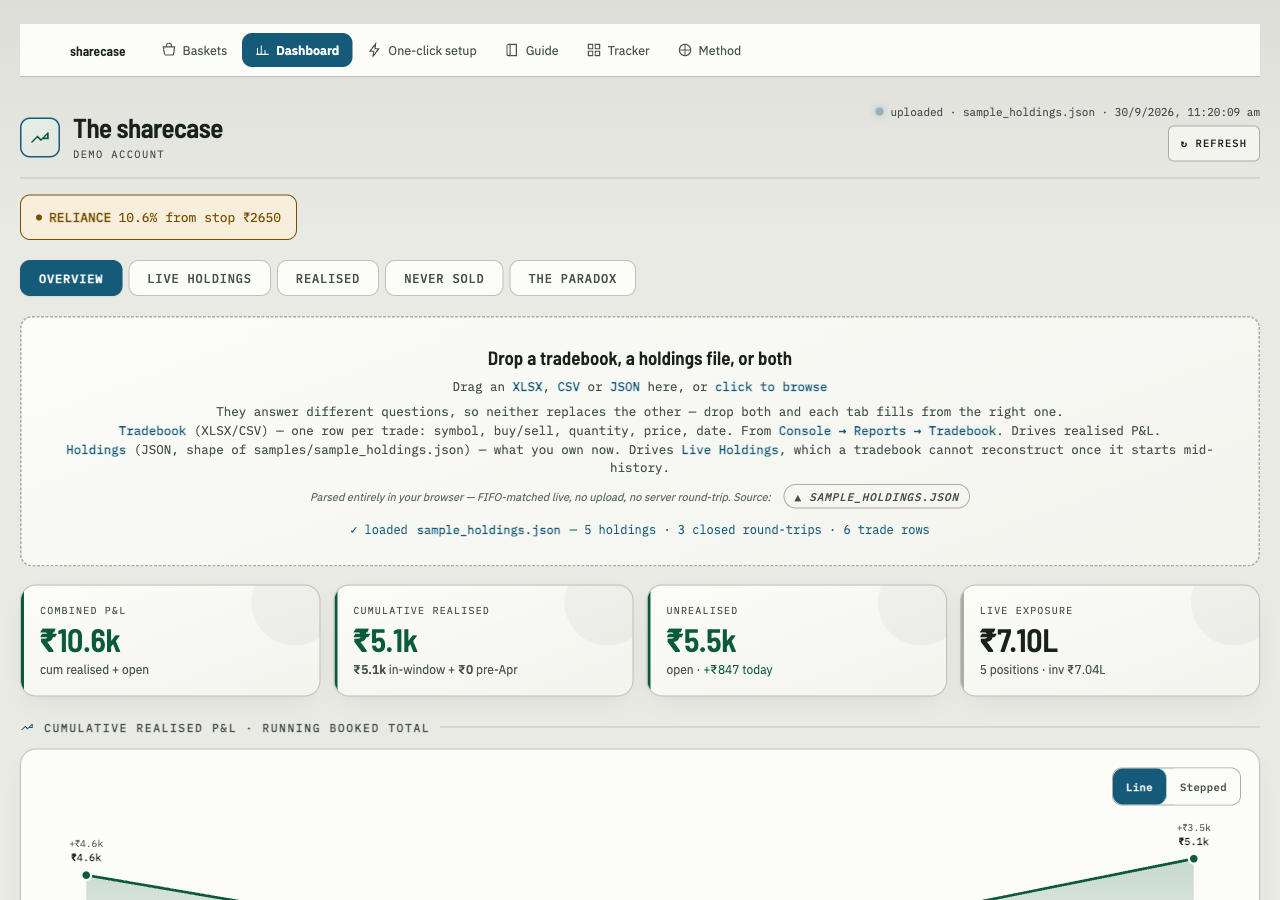
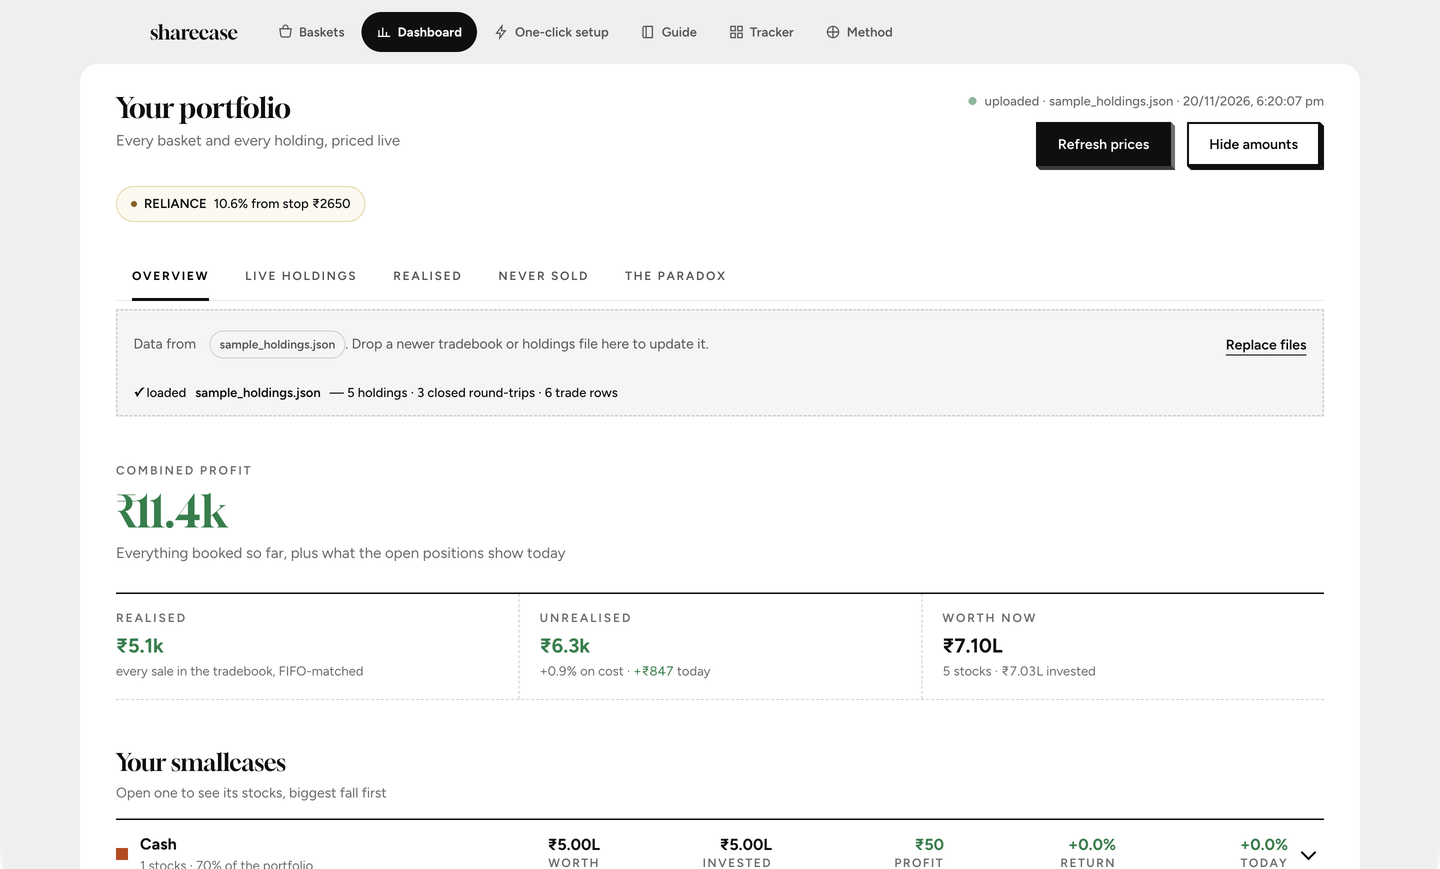
Architecture doc for the current flow; README and guide screenshots in the new design
- docs/ARCHITECTURE.md: trades from uploads on the public site, or from Netfolio on your own machine;
  sortable tables; the per-sale 'if you had kept what you sold' breakdown
- all 8 screenshots retaken with sample data only; alt text updated to match

diff --git a/docs/ARCHITECTURE.md b/docs/ARCHITECTURE.md
@@ -1,0 +1,114 @@
+# How sharecase works
+
+sharecase is a set of static HTML pages and one serverless function. It has no build step, database,
+accounts or telemetry. Every number is calculated in your browser from files you give it, and the
+server only fetches stock prices.
+
+The pages get your trades in one of two ways:
+- **On the public site,** from files you upload: a Console tradebook and a holdings file.
+- **On your own machine,** from [Netfolio](https://github.com/udaysrinu/netfolio), which reads your
+  broker's contract notes from Gmail and serves the result to these same pages on `localhost`.
+  Nothing has to be downloaded or uploaded.
+
+## 1. Context
+
+```mermaid
+flowchart LR
+  U(["You"]) -->|"open the pages"| SC["<b>sharecase</b><br/>basket sizing · portfolio analytics"]
+  U -->|"upload a tradebook / holdings file"| SC
+  NF["<b>Netfolio</b> (optional, local)<br/>trades from contract-note emails"] -->|"live.json on localhost"| SC
+  SC -->|"prices, no key"| Y["<b>Yahoo Finance</b><br/>last price · previous close · daily history"]
+  SC -->|"basket handoff, you confirm in Kite"| Z["<b>Zerodha</b><br/>Kite"]
+  F(["A friend"]) -->|"shares a basket file"| U
+```
+
+## 2. Containers
+
+```mermaid
+flowchart LR
+  subgraph V["Vercel"]
+    ST["Static pages<br/>7 HTML files + sorttable.js"]
+    FN["api/price.js<br/>price proxy"]
+  end
+  subgraph B["Your browser"]
+    WB["Workbench<br/>basket.html"]
+    TR["Tracker<br/>baskets.html"]
+    DA["Dashboard<br/>dashboard.html"]
+    LS[("localStorage")]
+  end
+  ST --> B
+  WB & TR & DA -->|"/api/price"| FN
+  FN -->|"Yahoo v8 chart"| Y["Yahoo"]
+  WB & TR & DA <--> LS
+  WB -->|"form POST"| K["kite.zerodha.com/connect/basket"]
+```
+
+| Page | What it does | Where its data comes from |
+|---|---|---|
+| `basket.html`, the Workbench | turns target weights into whole-share orders for an amount, or a rebalance of what you hold | a basket file, a pasted sheet, a holdings export |
+| `baskets.html`, the Tracker | per-basket ledger: value, invested, open and booked profit | your basket file and trades, kept in localStorage |
+| `dashboard.html` | whole-portfolio view: booked profit by month, best and worst stocks, per-stock history | an uploaded tradebook (XLSX/CSV) and/or holdings (JSON), or `live.json` when Netfolio serves one |
+| `index`, `onboarding`, `friends`, `method` | landing page, Kite key setup, a guide, and the sizing method | none |
+
+Every data table sorts by any column (`sorttable.js`). A redrawn table keeps the sort you chose.
+
+What's kept in your browser (`localStorage`): the basket file, parsed trades, the "hide amounts"
+switch, and your Kite **API key**. The key is public by design. These pages never use the API secret.
+
+## 3. The price API
+
+```mermaid
+flowchart TB
+  RQ["GET /api/price"] --> CO["CORS allowlist"]
+  CO --> Q{"?hist= ?"}
+  Q -->|"yes"| H["daily closes + split events<br/>NSE, then BSE · cached 1 h"]
+  Q -->|"no"| S["?symbols= up to 60 · last price + previous close<br/>series suffix stripped · INR only · cached 60 s"]
+```
+
+- Yahoo sends no CORS header, so a browser can't read it directly; this function can.
+- It needs no key and holds no credentials.
+- It returns a symbol as missing rather than guessing a price.
+
+## 4. Inside the Dashboard
+
+```mermaid
+flowchart TB
+  IN["uploaded files, or live.json"] --> P["parse XLSX / CSV / JSON"]
+  P --> G["reject anything that isn't a stock symbol (counted, shown)"]
+  G --> BD["buildData()"] --> FJ["fifoJS(): round trips · open lots"]
+  FJ --> AG["by month · cumulative · per stock · per basket"]
+  AG --> R["render: hero · basket dropdowns · best/worst ·<br/>charts · month lists"]
+  R --> DD["click a stock: price history with your buys and sells,<br/>average cost, booked, 'if you had kept what you sold'<br/>with one row per sale, every trade"]
+  PR["/api/price every 30 s"] --> BD
+```
+
+## 5. How the numbers are calculated
+
+| Number | Rule |
+|---|---|
+| Booked (realised) profit | FIFO per symbol with **same-day netting**, the way Zerodha computes it. On a day with both buys and sells, the matched quantity is intraday at that day's average buy against average sell. Only the remainder sells the oldest lots, or opens one new lot. This reproduces Kite's average prices. |
+| Average cost | the cost of the open FIFO lots |
+| Open (unrealised) profit | quantity × (last price − average cost) |
+| Session move | quantity × (last price − previous close), labelled "last session" outside market hours |
+| Whole-share sizing | shares are whole, so a basket only hits its weights exactly at certain amounts. The Workbench lists the nearest exact amounts (see [method.html](../method.html)). |
+| If you had kept what you sold | per sale: shares sold × splits since × today's price − what you received. The sheet totals what you received and what those shares are worth now. |
+
+Every figure is gross: no brokerage, taxes or charges, and no dividends.
+
+The pages and Netfolio's Python compute the same numbers independently. Netfolio's tests run the
+pages' own JavaScript and require both to agree to the rupee.
+
+## 6. Refresh
+
+- **Prices:** automatic, every 30 seconds while a page is open.
+- **Trades and holdings, on the public site:** whenever you load a new file. Kite's API only exposes
+  today's orders, so trade history has to come from Console tradebook exports.
+- **Trades and holdings, with Netfolio:** from the contract note your broker emails for every day you
+  trade. Netfolio checks who signed each note and that its sums hold, then rebuilds `live.json`.
+  The Dashboard re-reads it every 30 seconds.
+
+## 7. Security
+- Basket files come from other people, so they're untrusted.
+  - Symbols are validated where data comes in: A–Z, 0–9 and `& . -` only.
+  - Basket names and other free text are escaped wherever they're shown.
+- The one CDN script (SheetJS) is pinned with Subresource Integrity.

diff --git a/docs/GUIDE.md b/docs/GUIDE.md
@@ -113,7 +113,7 @@ for the minimum only; above it, see "over" above. For the sample basket it is **
 **Below the minimum it refuses**, rather than quietly dropping the stock it cannot afford. It names
 the stock that sets the floor and offers 1×, 2× and 3× the minimum:
 
-![The Workbench refusing ₹5,000 for the sample basket: it is under the floor of ₹12,554, TCS would get zero shares so you would own a different, more concentrated basket, and 1×, 2× and 3× the minimum (₹12,554, ₹25,108, ₹37,662) are offered. Above that, an amber "under this basket's floor" box with a Use ₹12,554 button, and the quick-pick row ₹12,600, ₹17,200, ₹27,300, ₹44,900 and ₹60,700](img/blocked.png)
+![The Workbench refusing ₹5,000 for the sample basket: it is under the floor of ₹12,554, TCS would get zero shares so you would own a different, more concentrated basket, and 1×, 2× and 3× the minimum (₹12,554, ₹25,108, ₹37,662) are offered. Above that, a pale "under this basket's floor" box with a Use ₹12,554 button, and the quick-pick row ₹12,600, ₹17,200, ₹27,300, ₹44,900 and ₹60,700](img/blocked.png)
 
 Then either **Copy as text / CSV**, or **Place in Kite**, which opens Kite in a new tab with the whole
 basket pre-filled. See [The Kite handoff](#the-kite-handoff). Nothing is placed by this page.
@@ -375,7 +375,7 @@ To try it with fake data, drop [`samples/sample_map.json`](../samples/sample_map
 three invented baskets, one stock shared by two of them, and a hand-kept sales ledger. There is no
 sample tradebook for the Tracker, so the realised figures in that demo come from the ledger.
 
-![The Tracker with samples/sample_map.json loaded: the Large Cap Core basket expanded with current value, invested, unrealised, realised, current return and total return, a recorded INFY sale, and a holdings table where RELIANCE carries a CORE + POWER chip; two more baskets collapsed, one of them showing a tot percentage](img/tracker.png)
+![The Tracker with samples/sample_map.json loaded: the Large Cap Core basket expanded with invested, value, unrealised, return, realised and total, a holdings table where RELIANCE carries a CORE + POWER chip, and its recorded INFY sale; Power & Utilities and Hand-picked collapsed below it](img/tracker.png)
 
 ### What you give it
 
@@ -601,7 +601,7 @@ counterfactual. It is parsed in the browser. Served next to a `live.json` (see
 [Dashboard from a tradebook](#dashboard-from-a-tradebook)), the page loads it by itself and re-reads
 it every 30 seconds.
 
-![The dashboard on a demo account built from samples/sample_tradebook.csv and samples/sample_holdings.json: a RELIANCE stop-loss alert, the tabs Overview, Live Holdings, Realised, Never Sold and The Paradox, the drop zone, then KPI tiles for Combined P&L, Cumulative Realised, Unrealised and Live Exposure, and the start of the realised curve](img/dashboard.png)
+![The dashboard on a demo account built from samples/sample_tradebook.csv and samples/sample_holdings.json: a RELIANCE stop-loss alert, the tabs Overview, Live Holdings, Realised, Never Sold and The Paradox, the drop zone, then Combined profit over tiles for Realised, Unrealised and Worth now, and the start of the Your smallcases list](img/dashboard.png)
 
 **Holdings JSON.** The browser accepts rows with just `s` (symbol) and `q` (quantity); the other
 fields in the [format](#holdingsjson-format) are optional there. `build_dashboard.py` is stricter and

diff --git a/README.md b/README.md
@@ -9,7 +9,7 @@ several baskets, the Tracker shows what each one has made, from your own Console
 retail investors in India who share baskets with friends, or follow a platform's baskets, and want to
 check the arithmetic themselves.
 
-**[Open it](https://sharecase-mu.vercel.app/)** · **[Full guide: docs/GUIDE.md](docs/GUIDE.md)** · Not investment advice
+**[Open it](https://sharecase-mu.vercel.app/)** · **[Full guide: docs/GUIDE.md](docs/GUIDE.md)** · **[How it works: docs/ARCHITECTURE.md](docs/ARCHITECTURE.md)** · Not investment advice
 
 ## The pages
 
@@ -45,9 +45,9 @@ check the arithmetic themselves.
 
 ![The Workbench at step 5 on the sample basket: ₹4,00,000, 4 stocks, ₹3,98,055 deployed, ₹1,945 left. Below it a ledger of RELIANCE 40, TCS 27, HDFCBANK 58 and NTPC 228 shares with target weight, price, shares, cost, actual weight and signed drift, and a "get closer to the target weights" panel suggesting ₹4,44,000](docs/img/workbench.png)
 
-![The Tracker with samples/sample_map.json loaded: the Large Cap Core basket expanded with current value, invested, unrealised, realised, current return and total return, a recorded INFY sale, and a holdings table where RELIANCE carries a CORE + POWER chip; two more baskets collapsed, one of them showing a tot percentage](docs/img/tracker.png)
+![The Tracker with samples/sample_map.json loaded: the Large Cap Core basket expanded with invested, value, unrealised, return, realised and total, a holdings table where RELIANCE carries a CORE + POWER chip, and its recorded INFY sale; Power & Utilities and Hand-picked collapsed below it](docs/img/tracker.png)
 
-![The dashboard on a demo account built from samples/sample_tradebook.csv and samples/sample_holdings.json: the tabs Overview, Live Holdings, Realised, Never Sold and The Paradox, the drop zone, then KPI tiles for Combined P&L, Cumulative Realised, Unrealised and Live Exposure](docs/img/dashboard.png)
+![The dashboard on a demo account built from samples/sample_tradebook.csv and samples/sample_holdings.json: the tabs Overview, Live Holdings, Realised, Never Sold and The Paradox, the drop zone, then Combined profit over tiles for Realised, Unrealised and Worth now](docs/img/dashboard.png)
 
 Every figure in these shots comes from the built-in sample or the files in [`samples/`](samples/), and
 all of it is invented.
